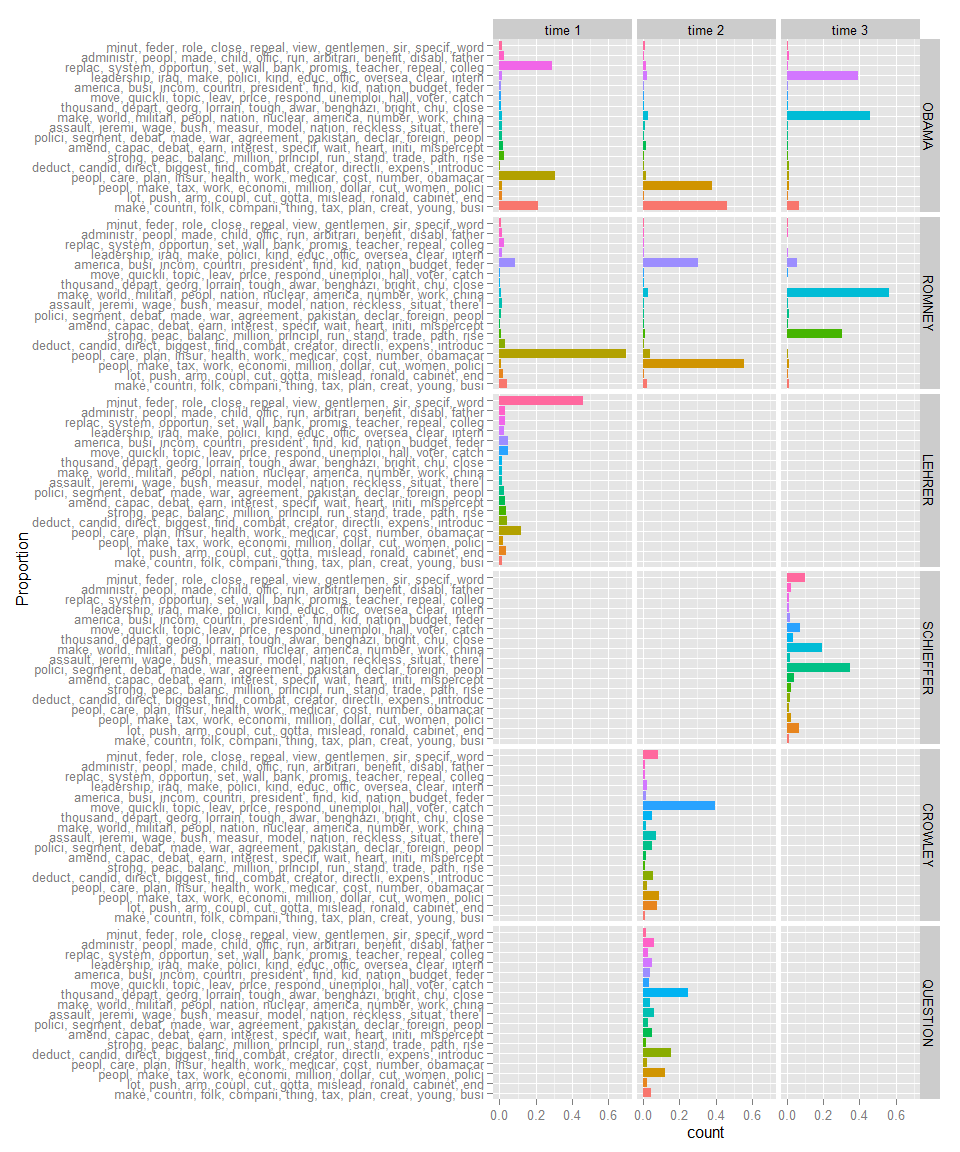
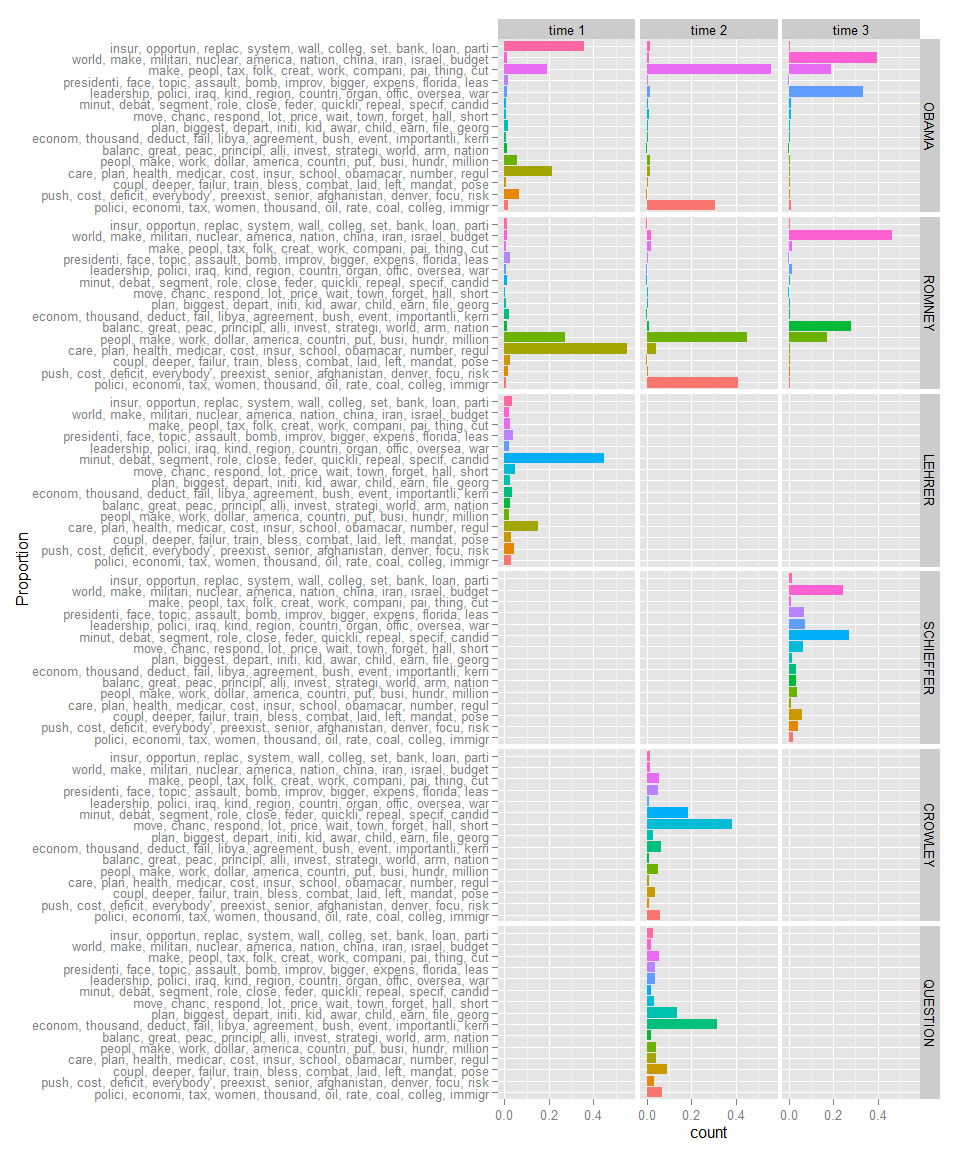
updated with network and heatmap

diff --git a/README.md b/README.md
@@ -340,7 +340,7 @@ The .R script for this demonstration can be downloaded from
 
     if (!require("pacman")) install.packages("pacman")
     pacman::p_load_gh("trinker/gofastr")
-    pacman::p_load(tm, topicmodels, dplyr, tidyr,  devtools, LDAvis, ggplot2)
+    pacman::p_load(tm, topicmodels, dplyr, tidyr, igraph, devtools, LDAvis, ggplot2)
 
     ## Source topicmodels2LDAvis & optimal_k functions
     invisible(lapply(
@@ -393,9 +393,9 @@ The plot below shows the harmonic mean of the log likelihoods against k
     ## Grab a cup of coffee this is gonna take a while...
 
     ## 10 of 30 iterations (Time elapsed: .3 mins)
-    ## 20 of 30 iterations (Time elapsed: 1.1 mins)
-    ## 30 of 30 iterations (Time elapsed: 2.4 mins)
-    ## Optimal number of topics = 17
+    ## 20 of 30 iterations (Time elapsed: 1.2 mins)
+    ## 30 of 30 iterations (Time elapsed: 2.6 mins)
+    ## Optimal number of topics = 15
 
     k
 
@@ -425,6 +425,39 @@ The plot below shows the harmonic mean of the log likelihoods against k
             ggplot2::xlab("Proportion")
 
 ![](inst/figure/unnamed-chunk-8-1.png)
+
+### Plot the Topics Matrix as a Heatmap
+
+    heatmap(topics, scale = "none")
+
+![](inst/figure/unnamed-chunk-9-1.png)
+
+### Network of the Word Distributions Over Topics
+
+    post <- topicmodels::posterior(lda_model)
+
+    cor_mat <- cor(t(post[["terms"]]))
+    cor_mat[ cor_mat < .05 ] <- 0
+    diag(cor_mat) <- 0
+
+    graph <- graph.adjacency(cor_mat, weighted=TRUE, mode="lower")
+    graph <- delete.edges(graph, E(graph)[ weight < 0.05])
+
+    E(graph)$edge.width <- E(graph)$weight*10
+    E(graph)$color <- "blue"
+    V(graph)$color <- "grey75"
+    V(graph)$frame.color <- "grey85"
+    V(graph)$label <- paste("Topic", V(graph))
+    V(graph)$label.color <- "grey30"
+    V(graph)$size <- colSums(post[["topics"]]) * 20
+
+    par(mar=c(0, 0, 3,0))
+    set.seed(110)
+    plot.igraph(graph, edge.width = E(graph)$edge.width, 
+        vertex.color = adjustcolor("black", alpha.f = .2))
+    title("Strength Between Topics Based On Word Probabilities", cex.main=.8)
+
+![](inst/figure/unnamed-chunk-10-1.png)
 
 ### LDAvis of Model
 
